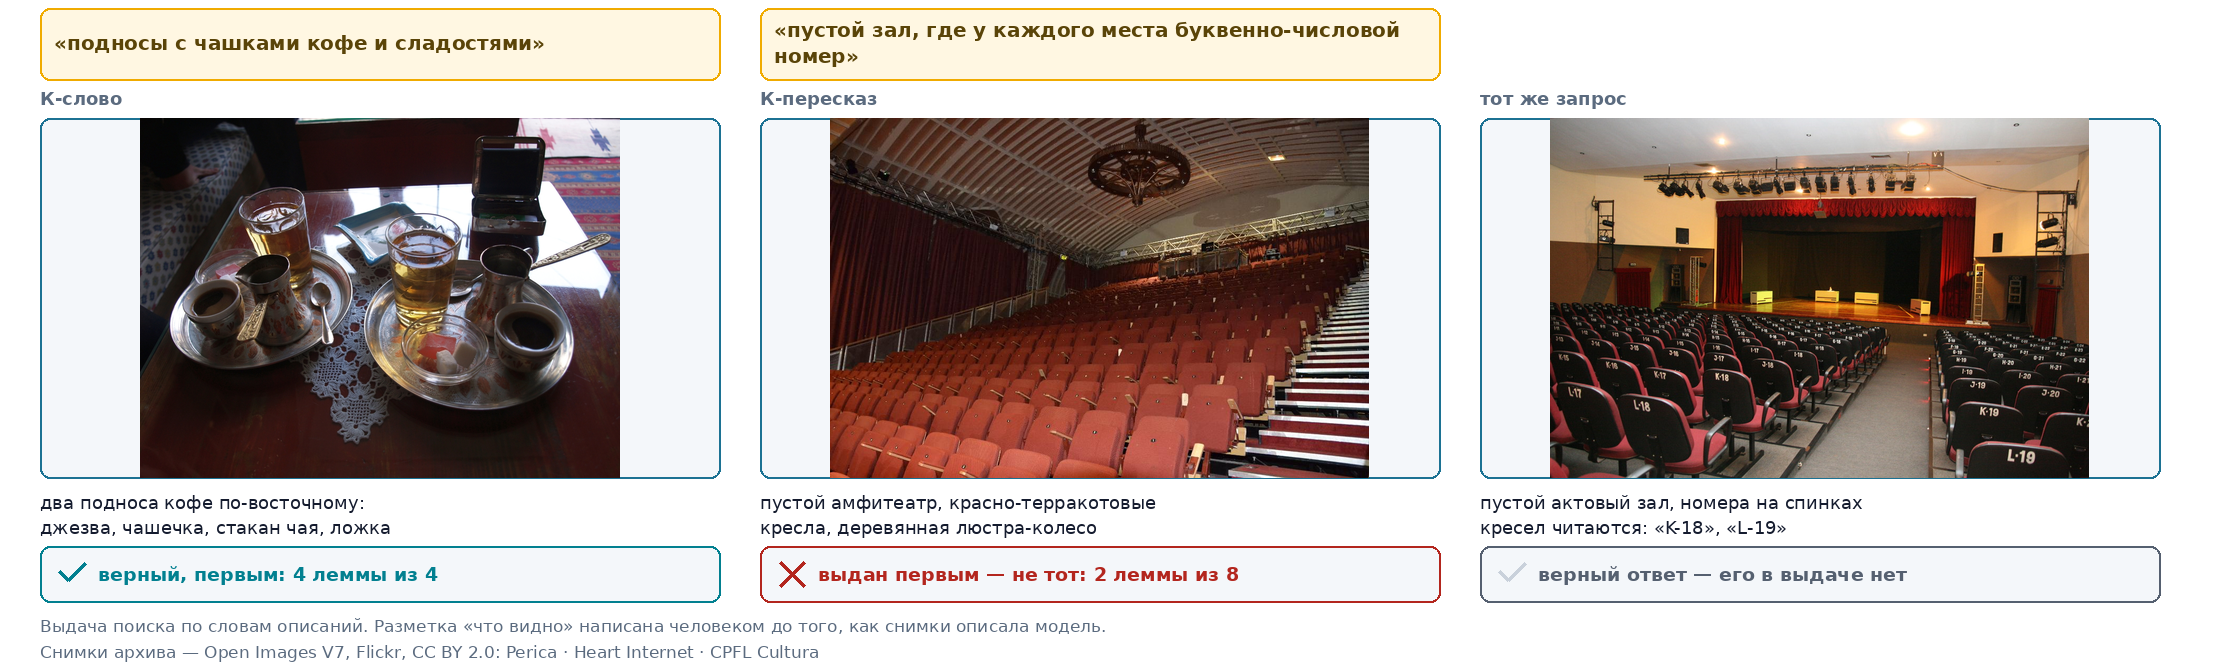
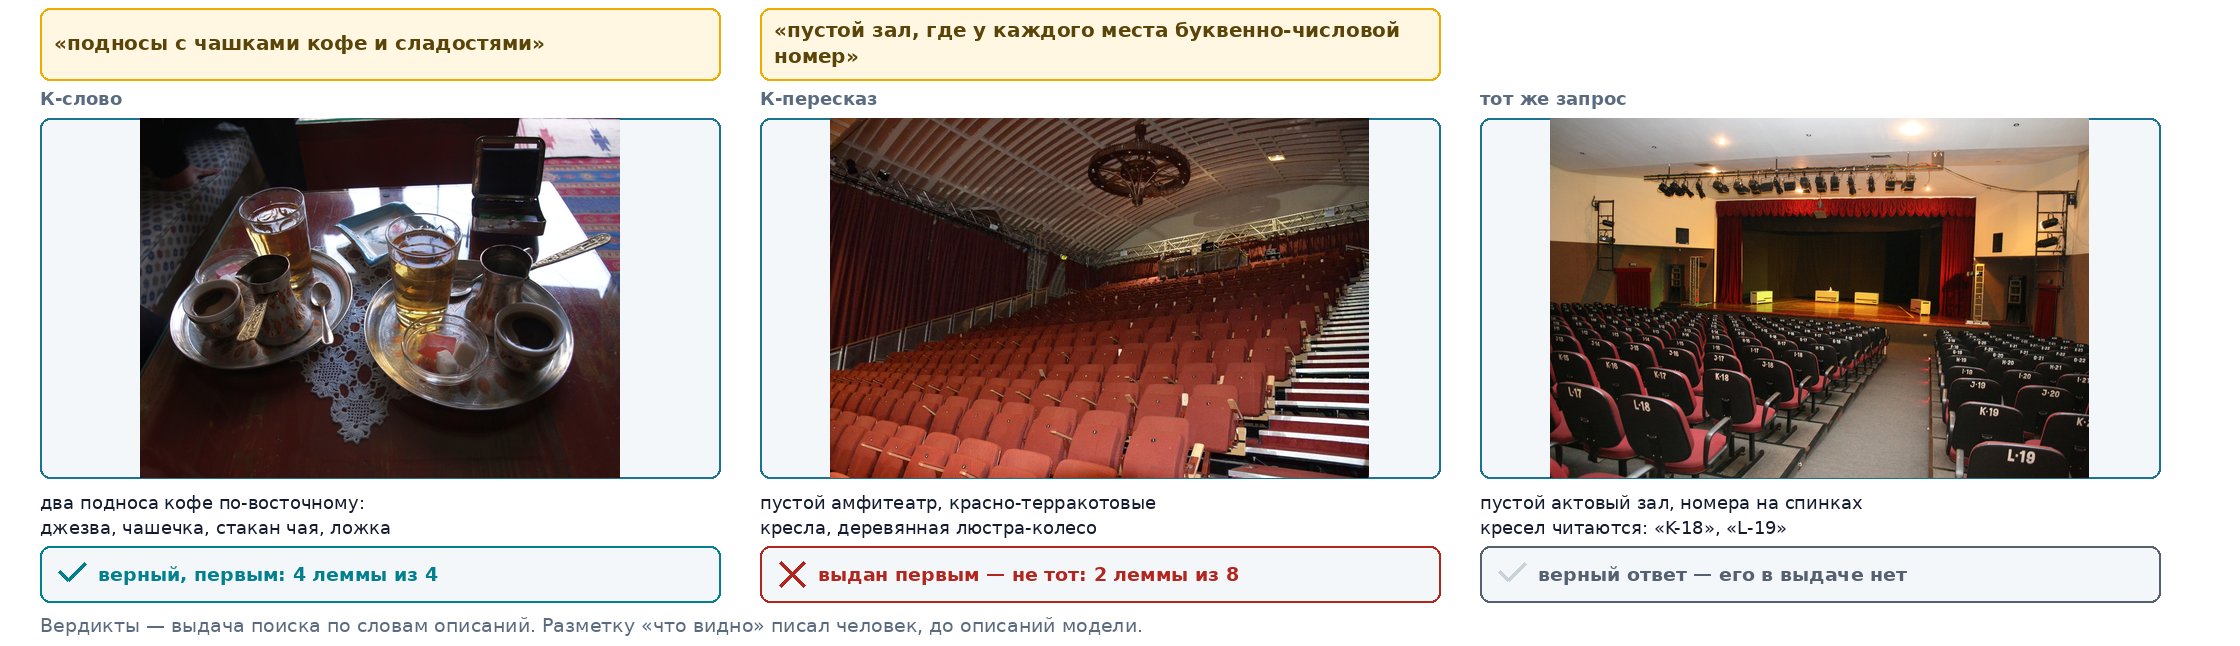
Семинар 12, кейс D: атрибуция снимков — в заметку n60, не на кадр (#351)
Сведение с кейсом C по замечанию оркестратора: два кадра одного занятия с
настоящими фотографиями были оформлены по-разному.

- Строка «Снимки архива — Open Images V7, Flickr, CC BY 2.0: Perica · Heart
  Internet · CPFL Cultura» снята с кадра: «источники фотографий на слайде не
  подписывать» (tools/presentation-build/trebovaniya-k-soderzhaniyu-forma.md
  §5.12). Имена, набор и лицензия перенесены в заметку n60 ДОСЛОВНО —
  заметки публикуются вместе с материалом, лицензия соблюдена.
- Поясняющая строка под карточками поднята с 17 до 19 px (была мельче
  подписей карточек и не читалась с задних рядов) и сокращена, чтобы
  уложиться по ширине: «Вердикты — выдача поиска по словам описаний.
  Разметку „что видно" писал человек, до описаний модели.»
- Полотно схемы 668 → 646 px после снятия строки.
- backup кадра и шапка рисовалки переписаны: автор назван в заметке, а не
  на кадре.

Сборка: 71 слайд, 0 предупреждений. Служебное чисто. Заметки n60 251 → 297
слов (коридор 250–450). Рисовалка: предупреждений нет.

diff --git a/library/seminars/sem-12/rendered/make_figures_D.py b/library/seminars/sem-12/rendered/make_figures_D.py
@@ -34,8 +34,11 @@
 деки платит за наш пример, не согласившись на это). Все три взятых снимка
 помечены `deck_allowed: true` с причиной «людей нет» / «людей почти нет —
 рука с краю», то есть замыливать нечего и никого. Лицензия у всех трёх —
-CC BY 2.0 (Flickr, Open Images V7), автор назван подписью на кадре, как
-требует и лицензия, и §13.2 того же решения.
+CC BY 2.0 (Flickr, Open Images V7), автор назван дословно в ЗАМЕТКЕ кадра
+n60 — заметки публикуются вместе с материалом, так что лицензия соблюдена, а
+кадр не несёт служебной строки («источники фотографий на слайде не
+подписывать», `trebovaniya-k-soderzhaniyu-forma.md` §5.12; то же решение у
+кейса C на таком же кадре).
 
     8cb7d659e2d0a541  G8 кружки и кофе   · запрос 1.7, словесная ветка попала
     71681aa82b7ef15f  G4 залы            · запрос 2.7, выдан первым — промах
@@ -128,7 +131,7 @@ CARDS = (
 
 
 def case_d_korpus():
-    im = Image.new("RGB", (2240, 668), W)
+    im = Image.new("RGB", (2240, 646), W)
     d = ImageDraw.Draw(im)
 
     for x, w, zapros, klass, sid, razmetka, verdikt, col, ok in CARDS:
@@ -159,12 +162,15 @@ def case_d_korpus():
         fit(d, verdikt, f(19, True), w - 72, f"вердикт {sid}")
         d.text((x + 58, 563), verdikt, font=f(19, True), fill=col)
 
-    d.text((40, 616),
-           "Выдача поиска по словам описаний. Разметка «что видно» написана человеком до того, "
-           "как снимки описала модель.", font=f(17), fill=MUTE)
-    d.text((40, 642),
-           "Снимки архива — Open Images V7, Flickr, CC BY 2.0: Perica · Heart Internet · CPFL Cultura",
-           font=f(17), fill=MUTE)
+    # Атрибуция снимков НЕ на кадре: «источники фотографий на слайде не
+    # подписывать» (`trebovaniya-k-soderzhaniyu-forma.md` §5.12). Лицензия
+    # CC BY требует атрибуции — она стоит дословно в заметке кадра n60,
+    # которая публикуется вместе с материалом. Решение сведено с кейсом C,
+    # у которого такой же кадр с настоящими фотографиями (круг 3).
+    podpis = ("Вердикты — выдача поиска по словам описаний. "
+              "Разметку «что видно» писал человек, до описаний модели.")
+    fit(d, podpis, f(19), 2160, "подпись корпуса")
+    d.text((40, 614), podpis, font=f(19), fill=MUTE)
     save(im, "case-d-korpus.png")
 
 

diff --git a/library/seminars/sem-12/slides/n60-d06-korpus.md b/library/seminars/sem-12/slides/n60-d06-korpus.md
@@ -15,8 +15,11 @@ visual:
   backup: >
     Снимки — `rendered/make_figures_D.py::case_d_korpus()`, кэш корпуса
     кейса B. Все три помечены `deck_allowed: true` в `zamery-B/razmetka.json`
-    («людей нет» / «людей почти нет»), лицензия CC BY 2.0, автор подписан
-    на кадре. Состав корпуса — `zamery-B/razmetka.json` (`in_corpus: true`),
+    («людей нет» / «людей почти нет»). Лицензия CC BY 2.0 — атрибуция стоит
+    дословно в заметке этого кадра, не на кадре: «источники фотографий на
+    слайде не подписывать» (`trebovaniya-k-soderzhaniyu-forma.md` §5.12),
+    а заметки публикуются вместе с материалом. Так же сделано у кейса C на
+    таком же кадре. Состав корпуса — `zamery-B/razmetka.json` (`in_corpus: true`),
     группы — `plan-peredelki/razmetka-B.md`. Контроль — `stend/zamery-D/
     README.md`, раздел «Контроль на документах A — D12».
 ---
@@ -44,3 +47,5 @@ visual:
 Второй и третий снимок — один запрос, и на нём видно, зачем нужны группы: спрашивают про пустое помещение, где у каждого места стоит буквенно-числовой номер. Поиск по словам выдаёт первым пустой амфитеатр: из восьми лемм запроса совпали две, и этого хватило. Верного снимка — того, где номера на спинках кресел читаются прямо, «K-18», «L-19», — в первой тройке выдачи нет вовсе. Два этих кадра лежат в одной группе и отличаются ровно тем, чего в описании не оказалось.
 
 Второй корпус — пятьдесят отсканированных форм. Он не добавляет к архиву снимков, он отвечает на другой вопрос: что из измеренного принадлежит методам, а что материалу. Без него вывод о том, какой способ сильнее, был бы выводом об одном конкретном архиве фотографий, и отличить одно от другого оказалось бы не на чем.
+
+Снимки архива — открытый набор Open Images V7, источник Flickr, лицензия CC BY 2.0. Авторы трёх снимков этого кадра, в порядке слева направо: Perica · Heart Internet · CPFL Cultura. Лицензия требует назвать автора, и это место, где он назван: публикуемая заметка несёт атрибуцию, а кадр остаётся без служебной строки.
